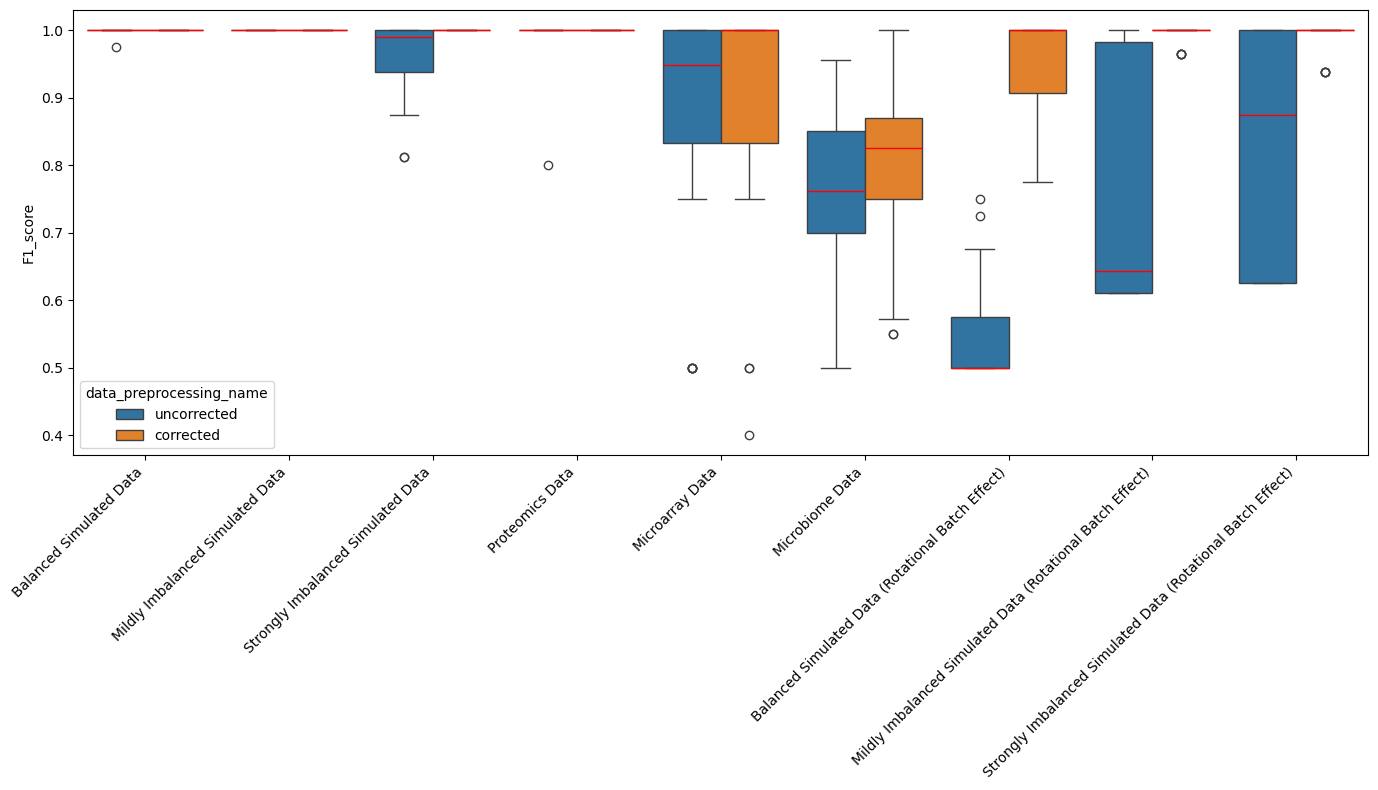
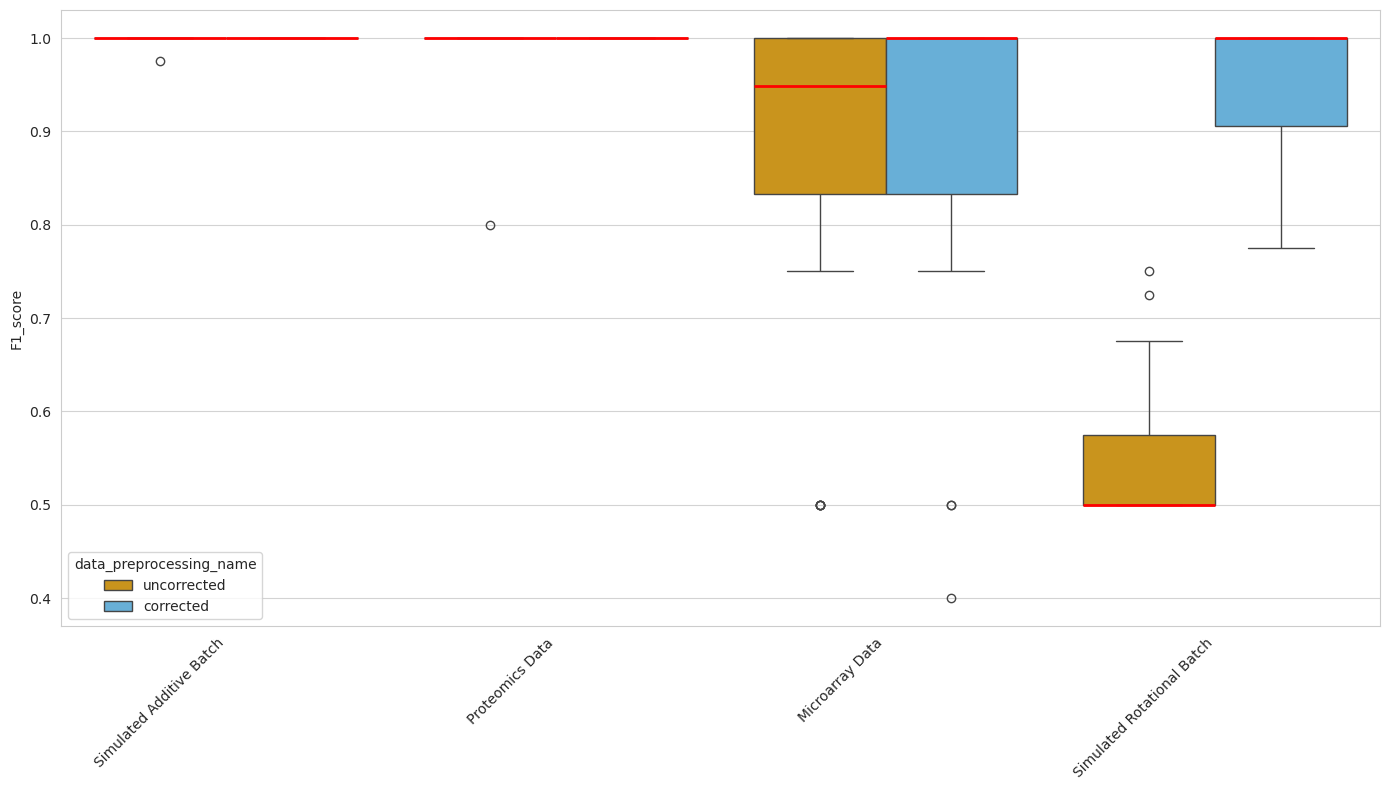
harmonized colour scheme file and paper adjusted classification plots

diff --git a/evaluation_classification_after_correction/analyse_classification_metric_report.py b/evaluation_classification_after_correction/analyse_classification_metric_report.py
@@ -1,15 +1,33 @@
 import os
+from pathlib import Path
+import json
 
 import pandas as pd
 import seaborn as sns
 import matplotlib.pyplot as plt
 
 SCRIPT_DIR = os.path.dirname(os.path.abspath(__file__))
+ROOT_DIR = os.path.dirname(Path(os.path.abspath(__file__)).parent)
+COLOUR_SCHEMA_FILE = os.path.join(ROOT_DIR, "evaluation_utils", "colour_schema.json")
 PLOTS_DIR = os.path.join(SCRIPT_DIR, "plots")
 RESULTS_FILE = os.path.join(SCRIPT_DIR, "results", "classification_metric_report.csv")
 AVERAGE_CLIENT_NAME = "All"
     # in the predicted_client_name column, this value is treated as being the average
     # over multiple runs that are otherwise identical
+DATANAME_TO_LABEL = {
+    "Balanced Simulated Data": "Simulated Additive Batch",
+    "Balanced Simulated Data (Rotational Batch Effect)": "Simulated Rotational Batch",
+}
+# these datanames will be displayed with the corresponding label in the plots.
+# If a dataname is not in this dict, it will be displayed as is.
+DATANAME_TO_EXCLUDE = [
+    "Mildly Imbalanced Simulated Data",
+    "Strongly Imbalanced Simulated Data",
+    "Microbiome Data",
+    "Mildly Imbalanced Simulated Data (Rotational Batch Effect)",
+    "Strongly Imbalanced Simulated Data (Rotational Batch Effect)",
+]
+# These datanames will be excluded from the plots, even if they are in the results file.
 
 # file system management
 if not os.path.exists(PLOTS_DIR):
@@ -20,9 +38,34 @@ if not os.path.exists(RESULTS_FILE):
     print("python3 run_classification_leave_one_cohort_out.py")
     exit(1)
 
+# Load classification metric report
 df = pd.read_csv(RESULTS_FILE)
 # remove duplicates if any
 df = df.drop_duplicates()
+
+# Load colour schema
+with open(COLOUR_SCHEMA_FILE, 'r') as f:
+    colour_schema = json.load(f)
+palette = colour_schema.get('palette', sns.color_palette())
+background_color = colour_schema.get('background', '#ffffff')
+grid_color = colour_schema.get('grid', '#d3d3d3')
+
+sns.set_palette(palette)
+sns.set_style(
+    "whitegrid",
+    {
+        'grid.color': grid_color,
+        'axes.facecolor': background_color,
+        'figure.facecolor': background_color,
+    },
+)
+plt.rcParams.update(
+    {
+        'figure.facecolor': background_color,
+        'savefig.facecolor': background_color,
+        'axes.facecolor': background_color,
+    }
+)
 
 # ensure no duplicate of all columns except metric_value
 duplicates = df[df.duplicated(subset=df.columns.difference(['metric_value']), keep=False)]
@@ -31,6 +74,11 @@ if len(duplicates) > 0:
     print("Duplicates:")
     print(duplicates)
     exit(1)
+
+# filter out datanames that should be excluded
+df = df[~df['data_name'].isin(DATANAME_TO_EXCLUDE)]
+# apply dataname labels
+df['data_name'] = df['data_name'].apply(lambda x: DATANAME_TO_LABEL.get(x, x))
 
 # metric name x cross validation method plots
 for metric_name in df['metric_name'].unique():
@@ -49,6 +97,7 @@ for metric_name in df['metric_name'].unique():
             y='metric_value',
             hue='data_preprocessing_name',
         )
+        axes.set_facecolor(background_color)
         plt.xlabel("")
         plt.ylabel(metric_name)
         plt.xticks(rotation=45, ha='right')
@@ -68,8 +117,9 @@ for metric_name in df['metric_name'].unique():
             x='data_name',
             y='metric_value',
             hue='data_preprocessing_name',
-            medianprops=dict(color='red'),
+            medianprops=dict(color=colour_schema.get('boxplot_median_marker_color', '#FF0000'), linewidth=2)
         )
+        axes.set_facecolor(background_color)
         plt.xlabel("")
         plt.ylabel(metric_name)
         plt.xticks(rotation=45, ha='right')
